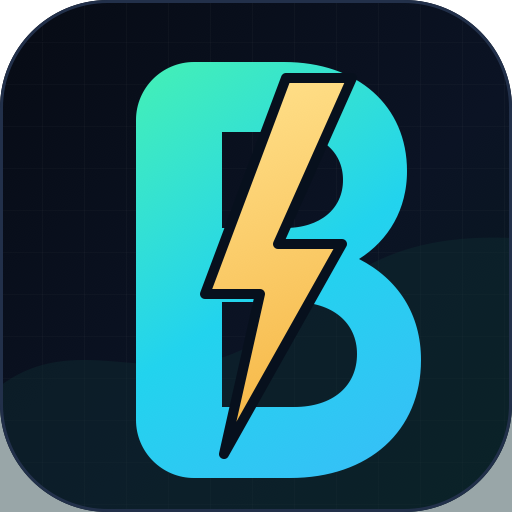
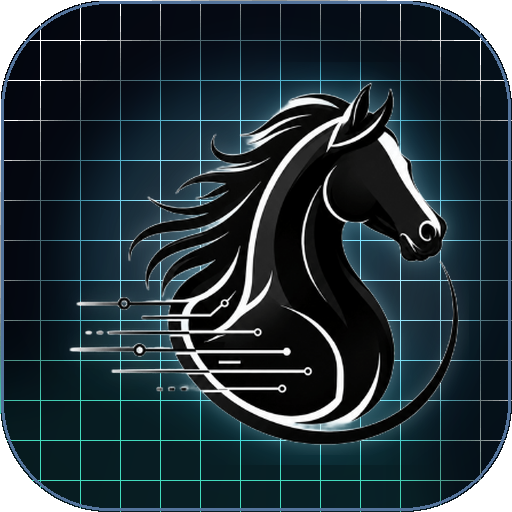
Use mascot in BarqDB profile assets

diff --git a/profile/README.md b/profile/README.md
@@ -1,10 +1,10 @@
 <p align="center">
-  <img src="./assets/barqdb-banner.svg" alt="BarqDB - local-first database tools" width="100%">
+  <img src="./assets/barqdb-banner.png" alt="BarqDB - local-first database tools" width="100%">
 </p>
 
 # BarqDB
 
-BarqDB is a local-first database stack for apps that need fast offline data and optional sync.
+BarqDB is a local-first database stack for apps that need fast offline data and real-time sync.
 
 The project includes SDKs for JavaScript, React Native, Kotlin, and C++, powered by a shared native core.
 
@@ -37,7 +37,7 @@ BarqDB is under active development. APIs may change while the SDKs stabilize.
 
 - Fast local reads and writes
 - Offline-first app data
-- Optional sync through barq-core
+- Real-time sync through barq-core
 - SDKs that feel native in each platform
 
 ## License